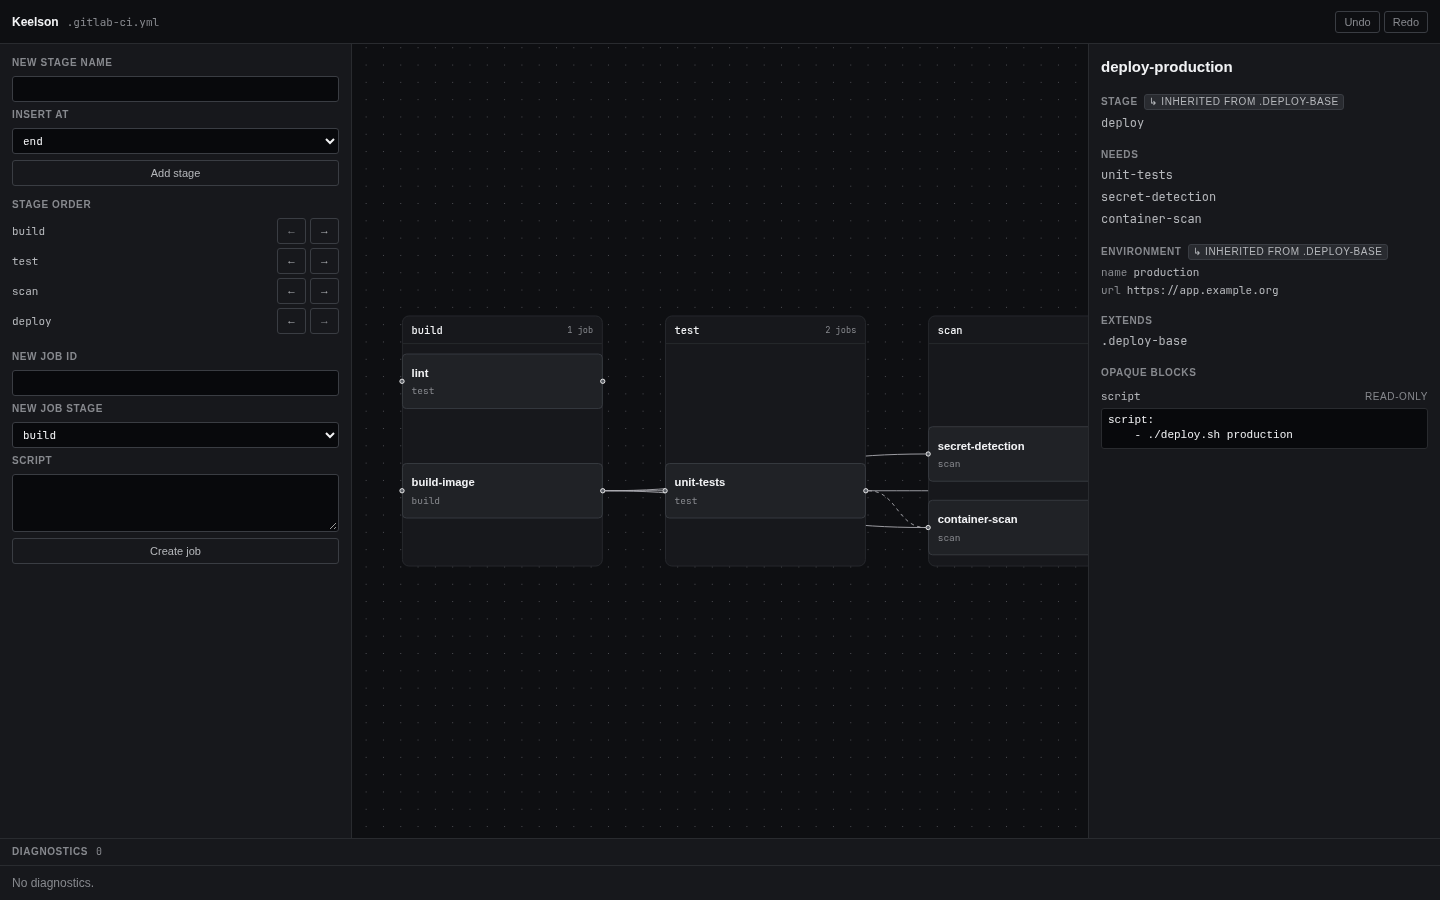
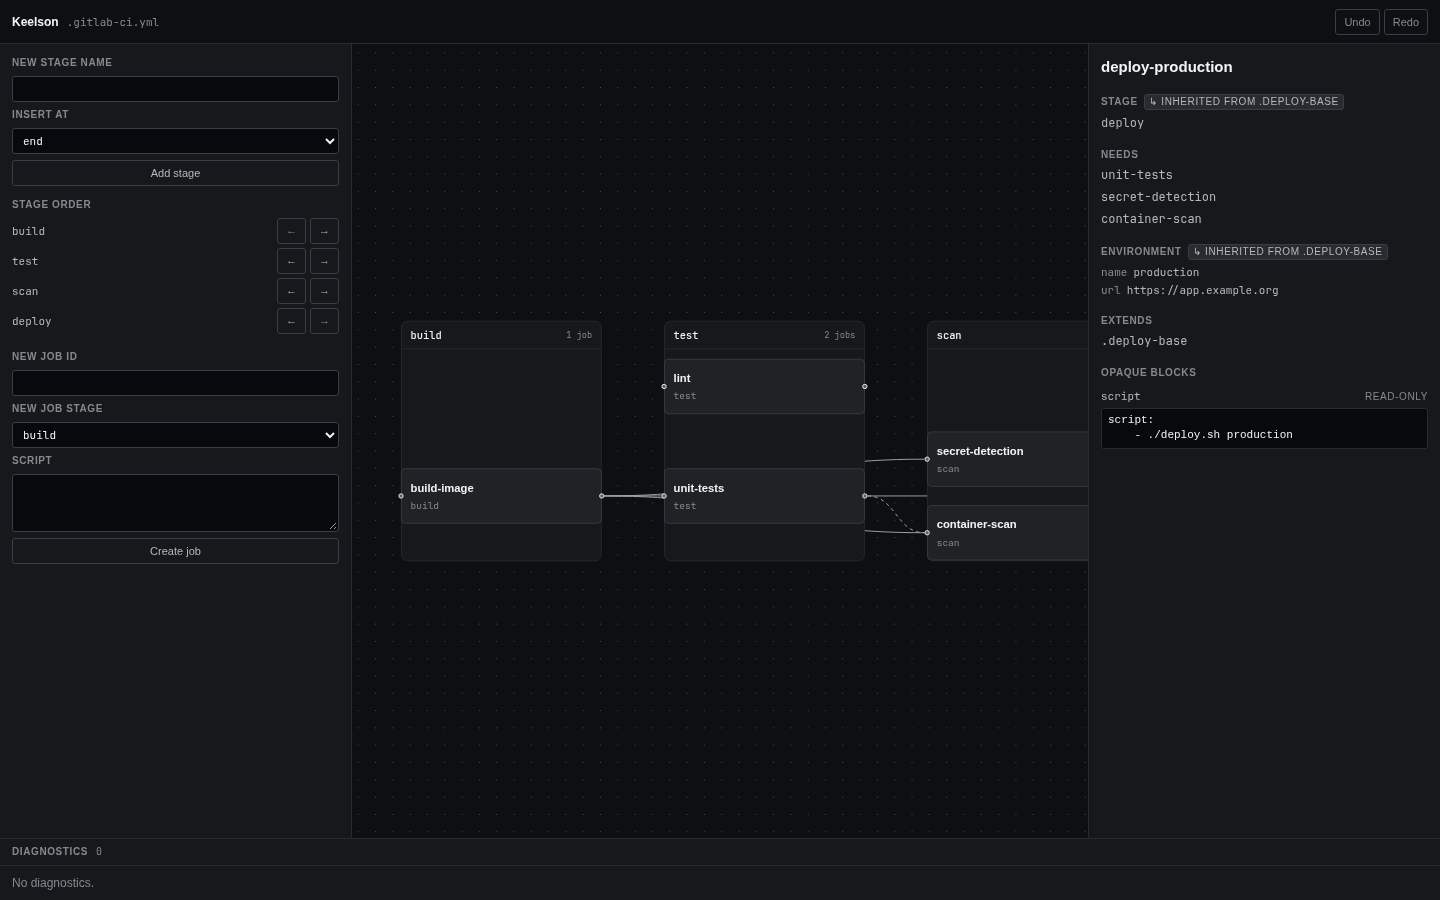
fix: un job est dessine dans la colonne de son stage
La vue Pipeline dessinait lint, job de stage test, a l'interieur de la
colonne build dont l'en-tete annoncait « 1 job ». Le x d'une colonne
etait deduit du x du premier de ses noeuds place par elkjs : rien ne
liait la geometrie de la boite a celle de la partition, donc un noeud
sans arete atterrissait dans une autre colonne.

La partition devient autoritaire. elkjs ne decide plus que l'ordre
vertical ; le x vient de l'index de la colonne. Comme forcer le x peut
ramener dans une meme colonne deux noeuds qu'elkjs avait separes en
couches, donc au meme y, les recouvrements intra-colonne sont resolus
en conservant son ordre. La hauteur du graphe est recalculee depuis
les noeuds, que ce decalage peut faire descendre sous celle d'elkjs.

Deux invariants nouveaux, exiges par l'ADR 0003, sur quatre et deux
scenarios : le centre de tout noeud tombe dans la boite de la colonne
de son stage ; deux jobs d'une meme colonne ne se recouvrent pas. Le
second a trouve un defaut que le correctif du premier introduisait.

900 pass / 0 fail.

diff --git a/packages/ui/test/layout.test.ts b/packages/ui/test/layout.test.ts
@@ -233,3 +233,161 @@ describe("déterminisme", () => {
     expect(byId.get("ship")).toBe(referenceById.get("ship"));
   });
 });
+
+describe("invariant : un job est dessiné dans la colonne de son stage", () => {
+  /** L'ADR 0003 exige cet invariant : la passe critique du 2026-10-22 a trouvé `lint`, un job de
+   *  stage `test`, dessiné dans la colonne `build` dont l'en-tête annonçait « 1 job ». Les tests
+   *  existants vérifiaient que la mise en page est calculée, jamais qu'elle est vraie. */
+  function assertContained(layout: Awaited<ReturnType<typeof layoutPipeline>>): void {
+    const columnOf = new Map<string, (typeof layout.columns)[number]>();
+    for (const column of layout.columns) {
+      for (const id of column.jobIds) {
+        columnOf.set(id, column);
+      }
+    }
+
+    for (const node of layout.nodes) {
+      const column = columnOf.get(node.id);
+      expect(column).toBeDefined();
+      if (column === undefined) {
+        continue;
+      }
+      const centre = node.x + node.width / 2;
+      expect({
+        job: node.id,
+        stage: column.name,
+        inside: centre >= column.x && centre <= column.x + column.width,
+      }).toEqual({ job: node.id, stage: column.name, inside: true });
+    }
+  }
+
+  test("sur un pipeline dont un job n'a aucune arête", async () => {
+    assertContained(
+      await layoutPipeline(
+        pipeline(
+          ["build", "test", "scan", "deploy"],
+          [
+            { id: "build-image", stage: "build" },
+            { id: "unit-tests", stage: "test", needs: [need("build-image")] },
+            { id: "lint", stage: "test" },
+            { id: "secret-detection", stage: "scan" },
+            { id: "container-scan", stage: "scan", needs: [need("build-image")] },
+            {
+              id: "deploy-production",
+              stage: "deploy",
+              needs: [need("unit-tests"), need("secret-detection"), need("container-scan")],
+            },
+          ],
+        ),
+        METRICS,
+      ),
+    );
+  });
+
+  test("sur un pipeline entièrement sans arête", async () => {
+    assertContained(
+      await layoutPipeline(
+        pipeline(
+          ["build", "test", "deploy"],
+          [
+            { id: "a", stage: "build" },
+            { id: "b", stage: "test" },
+            { id: "c", stage: "deploy" },
+          ],
+        ),
+        METRICS,
+      ),
+    );
+  });
+
+  test("quand un stage déclaré ne porte aucun job", async () => {
+    assertContained(
+      await layoutPipeline(
+        pipeline(
+          ["build", "vide", "deploy"],
+          [
+            { id: "a", stage: "build" },
+            { id: "b", stage: "deploy", needs: [need("a")] },
+          ],
+        ),
+        METRICS,
+      ),
+    );
+  });
+
+  test("quand un job référence un stage non déclaré", async () => {
+    assertContained(
+      await layoutPipeline(
+        pipeline(
+          ["build"],
+          [
+            { id: "a", stage: "build" },
+            { id: "b", stage: "surprise", needs: [need("a")] },
+          ],
+        ),
+        METRICS,
+      ),
+    );
+  });
+});
+
+describe("invariant : deux jobs d'une même colonne ne se recouvrent pas", () => {
+  async function overlapsIn(
+    stages: string[],
+    jobs: { id: string; stage: string; needs?: Need[] }[],
+  ): Promise<string[]> {
+    const layout = await layoutPipeline(pipeline(stages, jobs), METRICS);
+    const byId = new Map(layout.nodes.map((node) => [node.id, node]));
+    const found: string[] = [];
+
+    for (const column of layout.columns) {
+      const placed = column.jobIds
+        .map((id) => byId.get(id))
+        .filter((node): node is NonNullable<typeof node> => node !== undefined)
+        .sort((left, right) => left.y - right.y);
+
+      for (const [index, node] of placed.entries()) {
+        const next = placed[index + 1];
+        if (next !== undefined && next.y < node.y + node.height) {
+          found.push(`${node.id} recouvre ${next.id} dans ${column.name}`);
+        }
+      }
+    }
+
+    return found;
+  }
+
+  test("sur le pipeline de la fixture de dev", async () => {
+    expect(
+      await overlapsIn(
+        ["build", "test", "scan", "deploy"],
+        [
+          { id: "build-image", stage: "build" },
+          { id: "unit-tests", stage: "test", needs: [need("build-image")] },
+          { id: "lint", stage: "test" },
+          { id: "secret-detection", stage: "scan" },
+          { id: "container-scan", stage: "scan", needs: [need("build-image")] },
+          {
+            id: "deploy-production",
+            stage: "deploy",
+            needs: [need("unit-tests"), need("secret-detection"), need("container-scan")],
+          },
+        ],
+      ),
+    ).toEqual([]);
+  });
+
+  test("quand une colonne mêle des jobs liés et des jobs isolés", async () => {
+    expect(
+      await overlapsIn(
+        ["build", "test"],
+        [
+          { id: "compile", stage: "build" },
+          { id: "lié", stage: "test", needs: [need("compile")] },
+          { id: "isolé-a", stage: "test" },
+          { id: "isolé-b", stage: "test" },
+        ],
+      ),
+    ).toEqual([]);
+  });
+});

diff --git a/packages/ui/src/views/pipeline/layout.ts b/packages/ui/src/views/pipeline/layout.ts
@@ -141,32 +141,54 @@ export async function layoutPipeline(pipeline: Pipeline, metrics: LayoutMetrics)
 
   const laid = await new ELK().layout(graph);
 
-  const nodes: LayoutNode[] = (laid.children ?? [])
-    .map((child) => ({
-      id: child.id,
-      x: child.x ?? 0,
-      y: child.y ?? 0,
-      width: child.width ?? metrics.nodeWidth,
-      height: child.height ?? metrics.nodeHeight,
-    }))
-    .sort((left, right) => left.id.localeCompare(right.id));
+  const laidColumns: LayoutColumn[] = columns.map((column, index) => ({
+    ...column,
+    x: index * (metrics.nodeWidth + metrics.columnGap),
+    width: metrics.nodeWidth,
+  }));
 
-  const nodeById = new Map(nodes.map((node) => [node.id, node]));
+  const placed = new Map<string, LayoutNode>(
+    (laid.children ?? []).map((child) => [
+      child.id,
+      {
+        id: child.id,
+        x: laidColumns[columnOf.get(child.id) ?? 0]?.x ?? 0,
+        y: child.y ?? 0,
+        width: metrics.nodeWidth,
+        height: child.height ?? metrics.nodeHeight,
+      },
+    ]),
+  );
+
+  // elkjs ne décide plus que l'ordre vertical : forcer le x sur la partition peut ramener dans une
+  // même colonne deux nœuds qu'il avait séparés en couches, donc au même y. On les décale.
+  for (const column of laidColumns) {
+    const members = column.jobIds
+      .map((id) => placed.get(id))
+      .filter((node): node is LayoutNode => node !== undefined)
+      .sort((left, right) =>
+        left.y !== right.y ? left.y - right.y : left.id.localeCompare(right.id),
+      );
+
+    let floor = Number.NEGATIVE_INFINITY;
+    for (const node of members) {
+      node.y = Math.max(node.y, floor);
+      floor = node.y + node.height + metrics.rowGap;
+    }
+  }
+
+  const nodes: LayoutNode[] = [...placed.values()].sort((left, right) =>
+    left.id.localeCompare(right.id),
+  );
 
   return {
     nodes,
     edges: [...edges].sort((left, right) => left.id.localeCompare(right.id)),
-    columns: columns.map((column, index) => {
-      const first = column.jobIds
-        .map((id) => nodeById.get(id)?.x)
-        .find((value): value is number => value !== undefined);
-      return {
-        ...column,
-        x: first ?? index * (metrics.nodeWidth + metrics.columnGap),
-        width: metrics.nodeWidth,
-      };
-    }),
-    width: laid.width ?? 0,
-    height: laid.height ?? 0,
+    columns: laidColumns,
+    width: Math.max(
+      0,
+      laidColumns.length * (metrics.nodeWidth + metrics.columnGap) - metrics.columnGap,
+    ),
+    height: nodes.reduce((tallest, node) => Math.max(tallest, node.y + node.height), 0),
   };
 }
